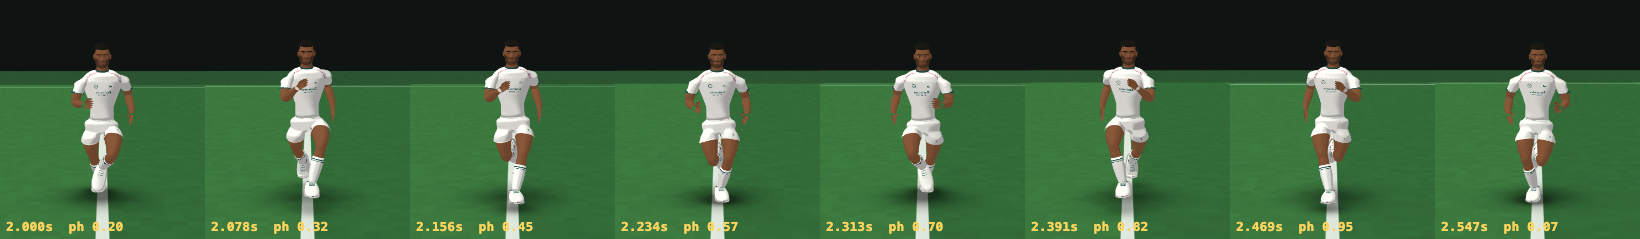
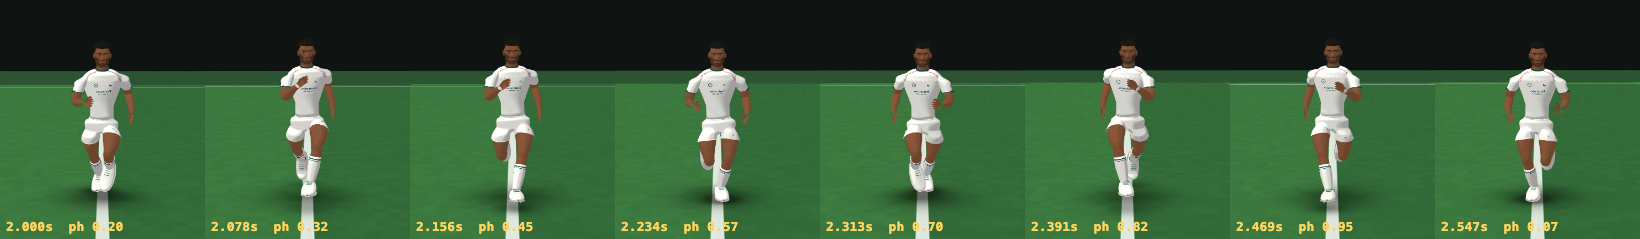
RUN-1 captures refreshed after iterations 7-12 (+ rear view, diagonal at the gameplay camera)

diff --git a/review_artifacts/locomotion_v2_run1/captures/MANIFEST.md b/review_artifacts/locomotion_v2_run1/captures/MANIFEST.md
@@ -10,3 +10,7 @@ All frames come from the viewer `sandbox/visual/run1.html` at the commit that ad
 | 04_game_zoom1_RUN1_vs_V1.png | the same at true gameplay scale (1×), cropped around the runners |
 | 05_front_RUN1_5.5.png | RUN-1 running toward the camera, front close view |
 | 06_side_RUN1_ramp_3_7.8_3.png | RUN-1 through the 3.0 → 7.8 → 3.0 m/s ramp, one frame every 0.5 s |
+| 07_rear_RUN1_5.5.png | RUN-1 running toward the camera, rear close view (the recovering heel passes outside the stance leg after iteration 11) |
+| 08_game_zoom2.5_diagonal_RUN1_vs_V1.png | the gameplay camera at 2.5×, diagonal run; RUN-1 near, V1 far |
+
+The sheets were recaptured at 05:46 after iterations 7 – 12 (MTP cap / toe-pad roll, swing clearance, head residual, arm asymmetry); the earlier versions are in Git history (`e2dfc0a8`).
